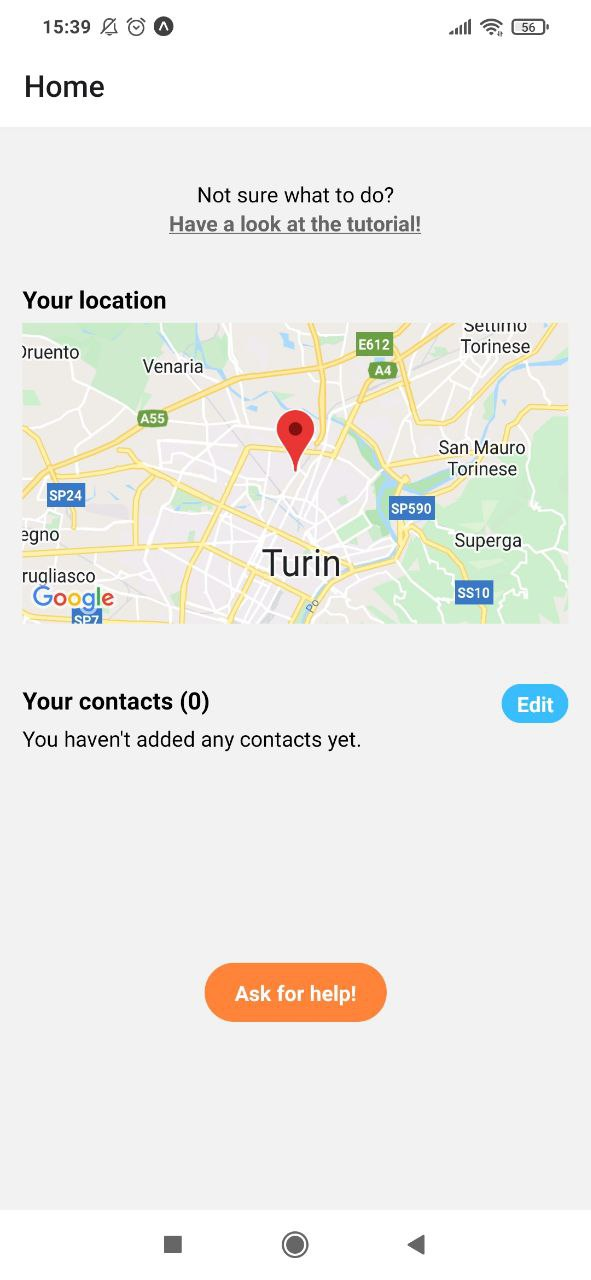
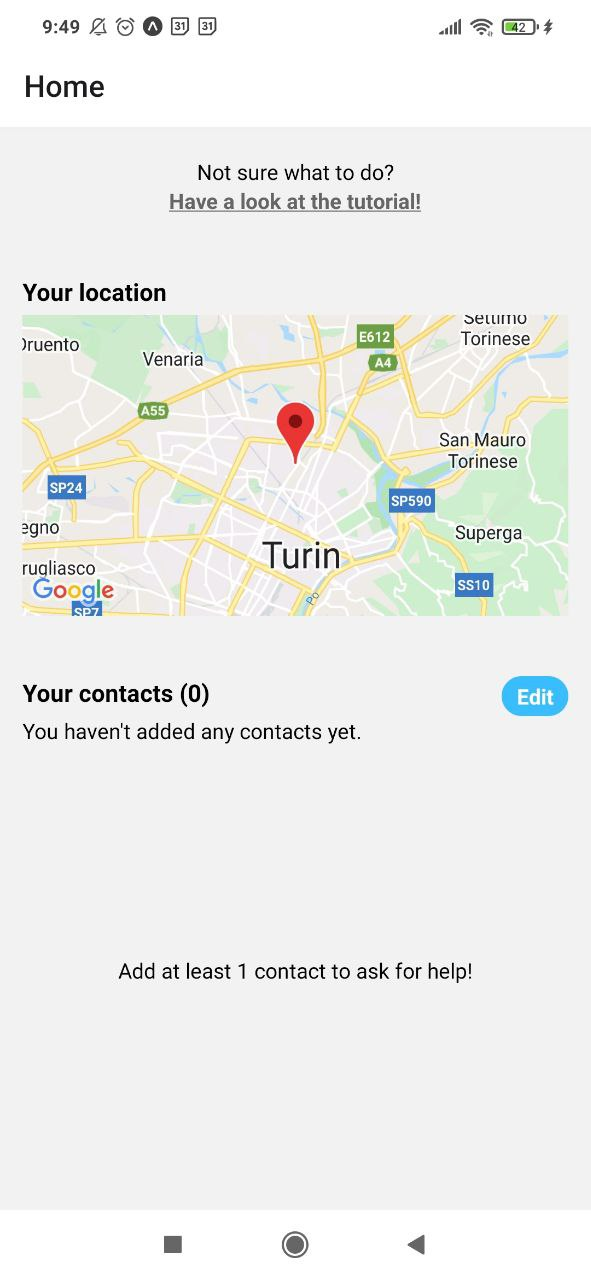
sos-app: show ask for help button only if at least one selected contact

diff --git a/mobile/sos-app/screens/Home.tsx b/mobile/sos-app/screens/Home.tsx
@@ -185,11 +185,17 @@ const Home: FunctionComponent<HomeProps> = (props: HomeProps) => {
                   callback={toggleModal}
                />
 
-               <View>
-                  <Pressable style={[styleApp.askButton]} onPress={_askForHelp}>
-                     <Text style={styleApp.textStyle}>Ask for help!</Text>
-                  </Pressable>
-               </View>
+               {(state.selectedContacts && state.selectedContacts.length > 0) ?
+                  <View>
+                     <Pressable style={[styleApp.askButton]} onPress={_askForHelp}>
+                        <Text style={styleApp.textStyle}>Ask for help!</Text>
+                     </Pressable>
+                  </View>
+                  :
+                  <View style={styleApp.marginTop100}>
+                     <Text>Add at least 1 contact to ask for help!</Text>
+                  </View>
+               }
 
             </View>
 

diff --git a/mobile/sos-app/styleApp.tsx b/mobile/sos-app/styleApp.tsx
@@ -59,8 +59,8 @@ export default StyleSheet.create(
       marginTop: {
          marginTop: 15
       },
-      marginTopMore: {
-         marginTop: 70
+      marginTop100: {
+         marginTop: 100
       },
       marginRight: {
          marginRight: 15
